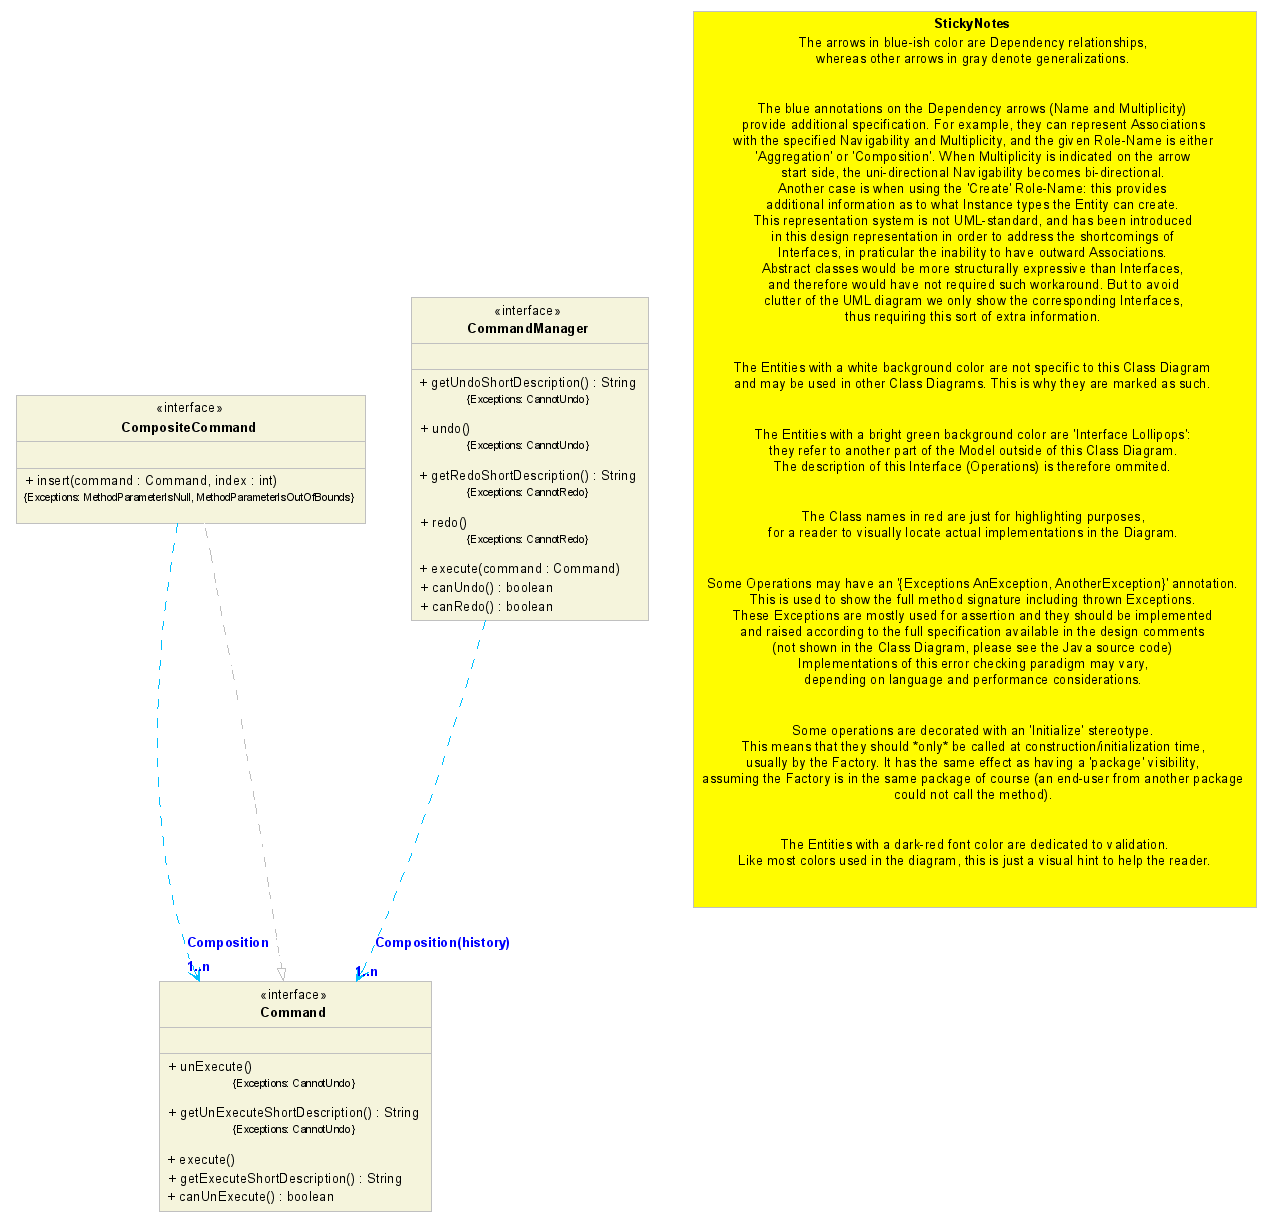
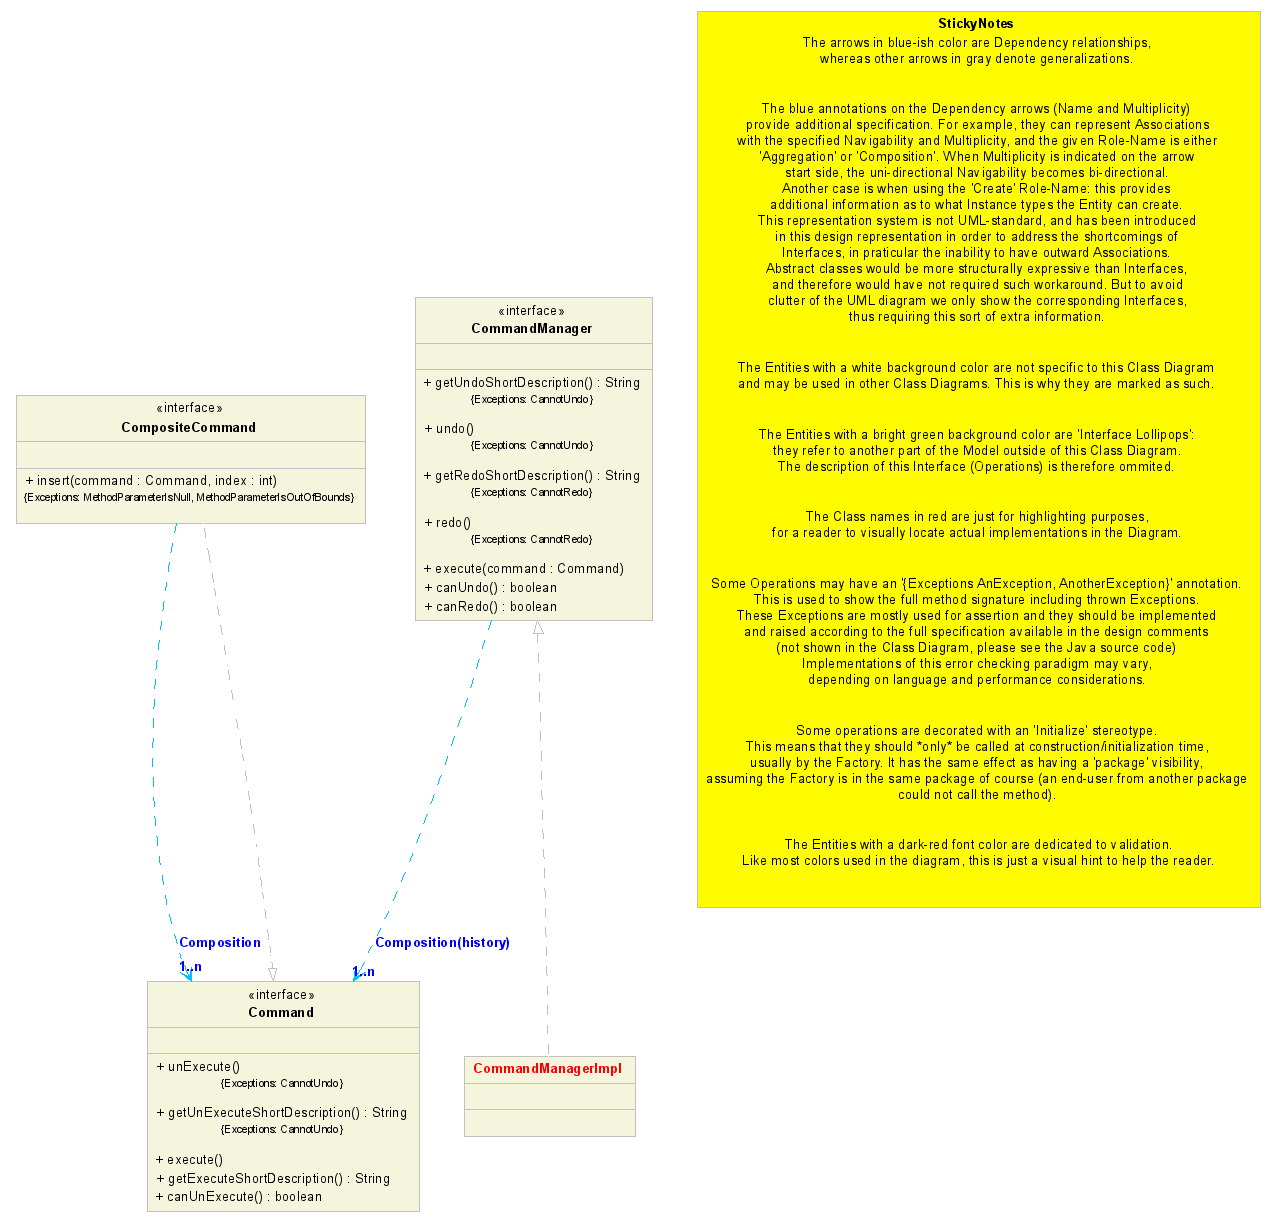
- Daniel wECK * Added implementation and updated PNGs

diff --git a/java/UMLGraph/src/org/daisy/urakawa/commands/CommandManagerImpl.java b/java/UMLGraph/src/org/daisy/urakawa/commands/CommandManagerImpl.java
@@ -1,0 +1,67 @@
+package org.daisy.urakawa.commands;
+
+import org.daisy.urakawa.exceptions.CannotUndoException;
+import org.daisy.urakawa.exceptions.CannotRedoException;
+
+/**
+ * The actual implementation to be implemented by the implementation team ;)
+ * All method bodies must be completed for realizing the required business logic.
+ * -
+ * This is the DEFAULT implementation for the API/Toolkit:
+ * end-users should feel free to use this class as such,
+ * or they can sub-class it in order to specialize the instance creation process.
+ * -
+ * In addition, an end-user has the possibility to implement the
+ * singleton factory pattern, so that only one instance of the factory
+ * is used throughout the application life
+ * (by adding a method like "static Factory getFactory()").
+ *
+ * @see CommandManager
+ */
+public class CommandManagerImpl implements CommandManager {
+    /**
+     * @hidden
+     */
+    public String getUndoShortDescription() throws CannotUndoException {
+        return null;
+    }
+
+    /**
+     * @hidden
+     */
+    public void undo() throws CannotUndoException {
+    }
+
+    /**
+     * @hidden
+     */
+    public String getRedoShortDescription() throws CannotRedoException {
+        return null;
+    }
+
+    /**
+     * @hidden
+     */
+    public void redo() throws CannotRedoException {
+    }
+
+    /**
+     * @hidden
+     */
+    public void execute(Command command) {
+    }
+
+    /**
+     * @hidden
+     */
+    public boolean canUndo() {
+        return false;
+    }
+
+    /**
+     * @hidden
+     */
+    public boolean canRedo() {
+        return false;
+    }
+}

diff --git a/java/UMLGraph/src/org/daisy/urakawa/commands/CommandManager.java b/java/UMLGraph/src/org/daisy/urakawa/commands/CommandManager.java
@@ -4,8 +4,12 @@ import org.daisy.urakawa.exceptions.CannotRedoException;
 import org.daisy.urakawa.exceptions.CannotUndoException;
 
 /**
- * Classes realizing this interface must store the history of Commands
+ * The Class realizing this interface must store the history of Commands
  * and maintain the current Undo/Redo state (pointer in the dynamic stack of Commands).
+ * An application should execute all the operations that affect the state of the data model
+ * via this manager (or "controler"), so that write access is consistent in respect to the
+ * Undo/Redo requirements (a non-registered modification of the data model will potentially
+ * corrupt further undo operation, particularly with object composition/recursion, such as with trees). 
  *
  * @depend - Composition(history) 1..n Command
  */
